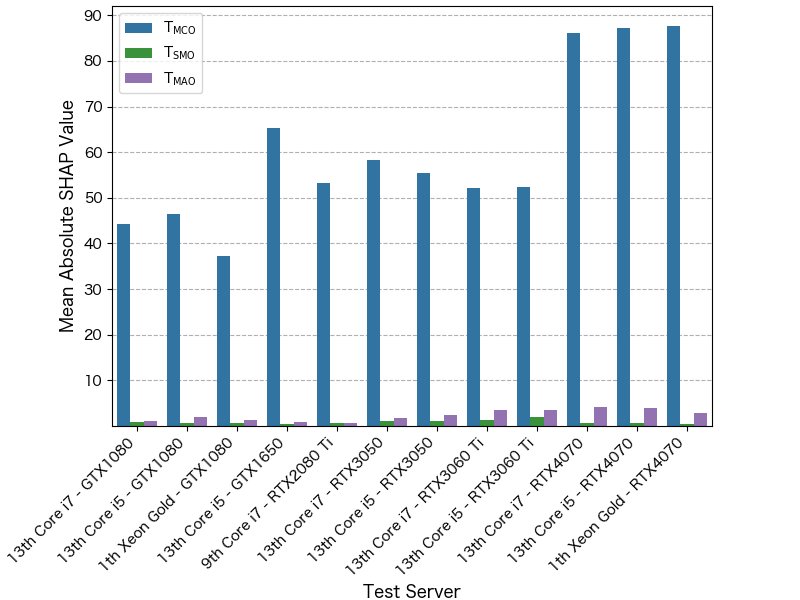
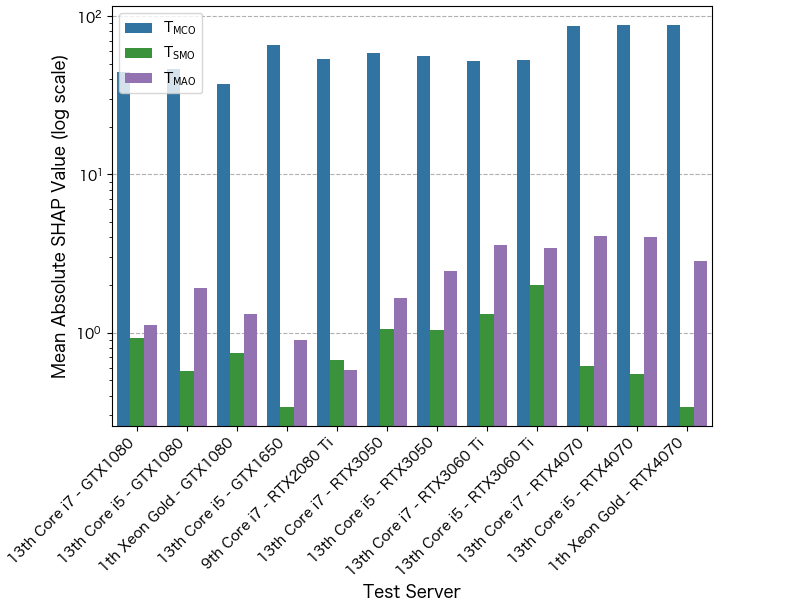
soturonグラフ追加

diff --git a/visualize_source/temp2.py b/visualize_source/temp2.py
@@ -1,0 +1,129 @@
+import pandas as pd
+import seaborn as sns
+import matplotlib.pyplot as plt
+import os
+from config import PLT_FONT
+
+plt.rcParams['font.family'] = PLT_FONT
+
+output_dir = '../soturon_graph'  # 保存先のディレクトリ
+
+
+def plot_benchmark_time(data, output_filename):
+    """
+    データを受け取り、ベンチマークの棒グラフを作成し、指定のファイル名で保存する関数。
+
+    Parameters:
+    - data (dict): GPU/CPUと各ベンチマークの実行時間を含む辞書形式のデータ
+    - output_filename (str): 保存するファイル名
+    """
+    # DataFrameの作成
+    df = pd.DataFrame(data)
+
+    # データをlong formatに変換
+    df_melted = df.melt(
+        id_vars=df.columns[0],  # 最初の列（GPUやCPU名）
+        value_vars=df.columns[1:],  # ベンチマークの列
+        var_name='Benchmark',
+        value_name='Time (s)')
+
+    # LaTeX形式に変換する関数
+    def convert_to_latex_format(parameter):
+        return f"T$_{{\\text{{{parameter[2:]}}}}}$"
+
+    # Benchmark列を変換
+    df_melted["Benchmark"] = df_melted["Benchmark"].apply(convert_to_latex_format)
+
+    # df の列数（最初の列はカテゴリ列として除外）
+    num_benchmarks = len(df.columns) - 1  # 例えば "CPU" や "GPU" の列を除外
+    if num_benchmarks == 3:
+        palette = ["#1f77b4", "#ff7f0e", "#d62728"]  # 青・オレンジ・赤
+    else:
+        palette = ["#1f77b4", "#ff7f0e", "#2ca02c", "#d62728", "#9467bd", "#edc949"]
+    plt.figure(figsize=(5, 4))
+    ax = plt.gca()
+    ax.grid(True, zorder=1)  # グリッドを zorder=1 に設定
+    sns.barplot(x=df.columns[0],
+                y='Time (s)',
+                hue='Benchmark',
+                data=df_melted,
+                palette=palette,
+                width=0.6,
+                zorder=2)
+    ax.legend().set_title('')
+    plt.xlabel(df.columns[0], fontsize=12)  # CPUやGPU名に応じたラベル
+    plt.ylabel('Time (s, log scale)', fontsize=12)
+    plt.xticks(fontsize=10)
+    plt.yscale("log")
+    plt.tight_layout()
+    plt.subplots_adjust(right=0.85)  # 下部の余白を確保
+
+    # 保存
+    save_path = os.path.join(output_dir, output_filename)
+    plt.savefig(save_path)
+    plt.close()
+
+
+# # 使用例
+# data1 = {
+#     'CPU': ['13th Core i7', '13th Core i5', '1st Xeon Gold'],
+#     'T_SLT': [0.18259, 0.19787, 0.39629],
+#     'T_BST': [0.11185, 0.11958, 0.17592],
+#     'T_IST': [0.14290, 0.15332, 0.24017]
+# }
+
+# plot_benchmark_time(data1, 'transfer_rtx4070_cpu.png')
+
+# data2 = {
+#     'GPU': ['RTX4070', 'RTX3060 Ti', 'RTX3050', 'GTX1650', 'GTX1080'],
+#     'T_SLT': [0.19787, 0.19683, 0.22359, 0.22539, 0.22363],
+#     'T_BST': [0.11958, 0.11924, 0.13752, 0.13858, 0.13802],
+#     'T_IST': [0.15332, 0.15200, 0.18115, 0.18422, 0.18245]
+# }
+
+# plot_benchmark_time(data2, 'transfer_13th_Core_i5_gpu.png')
+
+# データの設定
+data3 = {
+    'GPU': ['RTX4070', 'GTX1080'],
+    'T_SLT': [0.39629, 0.39282],
+    'T_BST': [0.17592, 0.17521],
+    'T_IST': [0.24017, 0.24391]
+}
+plot_benchmark_time(data3, 'transfer_1th_Xeon_Gold_gpu.png')
+
+# # データの設定
+# data4 = {
+#     'GPU': ['RTX4070', 'RTX3060 Ti', 'RTX3050', 'GTX1650', 'GTX1080'],
+#     'T_SCO': [0.36207, 0.61767, 1.32907, 1.76343, 0.56396],
+#     'T_MCO': [0.80885, 1.38042, 3.10884, 3.95939, 2.36742],
+#     'T_SMO': [4.44514, 7.77619, 16.50043, 19.24658, 7.47047],
+#     'T_MMO': [0.49520, 0.83275, 1.79453, 2.17332, 0.97811],
+#     'T_SAO': [0.00517, 0.00579, 0.01566, 0.01432, 0.00994],
+#     'T_MAO': [0.51385, 0.57337, 1.55930, 1.42609, 0.98987]
+# }
+
+# plot_benchmark_time(data4, 'matrix_13th_Core_i5_gpu.png')
+
+# data5 = {
+#     "CPU": ["13th Core i7", "13th Core i5", "1st Xeon Gold"],
+#     "T_SCO": [0.55801, 0.56396, 0.56004],
+#     "T_MCO": [2.28216, 2.36742, 2.29248],
+#     "T_SMO": [7.44310, 7.47047, 7.49736],
+#     "T_MMO": [0.96404, 0.97811, 0.97532],
+#     "T_SAO": [0.00994, 0.00994, 0.00998],
+#     "T_MAO": [0.98969, 0.98987, 0.98950],
+# }
+# plot_benchmark_time(data5, 'matrix_gtx1080_cpu.png')
+
+# # データの設定
+# data6 = {
+#     "CPU": ["13th Core i7", "13th Core i5", "1st Xeon Gold"],
+#     "T_SCO": [0.36004, 0.36207, 0.40328],
+#     "T_MCO": [0.80333, 0.80885, 0.84915],
+#     "T_SMO": [4.42400, 4.44514, 4.49111],
+#     "T_MMO": [0.48996, 0.49520, 0.49006],
+#     "T_SAO": [0.00516, 0.00517, 0.00522],
+#     "T_MAO": [0.51386, 0.51385, 0.51435],
+# }
+# plot_benchmark_time(data6, 'matrix_rtx4070_cpu.png')

diff --git a/visualize_source/temp.py b/visualize_source/temp.py
@@ -1,0 +1,128 @@
+import pandas as pd
+import seaborn as sns
+import matplotlib.pyplot as plt
+import os
+from config import PLT_FONT
+
+plt.rcParams['font.family'] = PLT_FONT
+
+output_dir = '../soturon_graph'  # 保存先のディレクトリ
+
+
+def plot_benchmark_time(data, output_filename):
+    """
+    データを受け取り、ベンチマークの棒グラフを作成し、指定のファイル名で保存する関数。
+
+    Parameters:
+    - data (dict): GPU/CPUと各ベンチマークの実行時間を含む辞書形式のデータ
+    - output_filename (str): 保存するファイル名
+    """
+    # DataFrameの作成
+    df = pd.DataFrame(data)
+
+    # データをlong formatに変換
+    df_melted = df.melt(
+        id_vars=df.columns[0],  # 最初の列（GPUやCPU名）
+        value_vars=df.columns[1:],  # ベンチマークの列
+        var_name='Benchmark',
+        value_name='Time (s)')
+
+    # LaTeX形式に変換する関数
+    def convert_to_latex_format(parameter):
+        return f"T$_{{\\text{{{parameter[2:]}}}}}$"
+
+    # Benchmark列を変換
+    df_melted["Benchmark"] = df_melted["Benchmark"].apply(convert_to_latex_format)
+
+    # df の列数（最初の列はカテゴリ列として除外）
+    num_benchmarks = len(df.columns) - 1  # 例えば "CPU" や "GPU" の列を除外
+    if num_benchmarks == 3:
+        palette = ["#1f77b4", "#ff7f0e", "#d62728"]  # 青・オレンジ・赤
+    else:
+        palette = ["#1f77b4", "#ff7f0e", "#2ca02c", "#d62728", "#9467bd", "#edc949"]
+    plt.figure(figsize=(6, 5))
+    ax = plt.gca()
+    ax.grid(True, zorder=1)  # グリッドを zorder=1 に設定
+    sns.barplot(x=df.columns[0],
+                y='Time (s)',
+                hue='Benchmark',
+                data=df_melted,
+                palette=palette,
+                zorder=2)
+    ax.legend().set_title('')
+    plt.xlabel(df.columns[0], fontsize=12)  # CPUやGPU名に応じたラベル
+    plt.ylabel('Time (s, log scale)', fontsize=12)
+    plt.xticks(fontsize=10)
+    plt.yscale("log")
+    plt.tight_layout()
+    plt.subplots_adjust(right=0.85)  # 下部の余白を確保
+
+    # 保存
+    save_path = os.path.join(output_dir, output_filename)
+    plt.savefig(save_path)
+    plt.close()
+
+
+# 使用例
+data1 = {
+    'CPU': ['13th Core i7', '13th Core i5', '1st Xeon Gold'],
+    'T_SLT': [0.18259, 0.19787, 0.39629],
+    'T_BST': [0.11185, 0.11958, 0.17592],
+    'T_IST': [0.14290, 0.15332, 0.24017]
+}
+
+plot_benchmark_time(data1, 'transfer_rtx4070_cpu.png')
+
+data2 = {
+    'GPU': ['RTX4070', 'RTX3060 Ti', 'RTX3050', 'GTX1650', 'GTX1080'],
+    'T_SLT': [0.19787, 0.19683, 0.22359, 0.22539, 0.22363],
+    'T_BST': [0.11958, 0.11924, 0.13752, 0.13858, 0.13802],
+    'T_IST': [0.15332, 0.15200, 0.18115, 0.18422, 0.18245]
+}
+
+plot_benchmark_time(data2, 'transfer_13th_Core_i5_gpu.png')
+
+# データの設定
+data3 = {
+    'GPU': ['RTX4070', 'GTX1080'],
+    'T_SLT': [0.39629, 0.39282],
+    'T_BST': [0.17592, 0.17521],
+    'T_IST': [0.24017, 0.24391]
+}
+plot_benchmark_time(data3, 'transfer_1th_Xeon_Gold_gpu.png')
+
+# データの設定
+data4 = {
+    'GPU': ['RTX4070', 'RTX3060 Ti', 'RTX3050', 'GTX1650', 'GTX1080'],
+    'T_SCO': [0.36207, 0.61767, 1.32907, 1.76343, 0.56396],
+    'T_MCO': [0.80885, 1.38042, 3.10884, 3.95939, 2.36742],
+    'T_SMO': [4.44514, 7.77619, 16.50043, 19.24658, 7.47047],
+    'T_MMO': [0.49520, 0.83275, 1.79453, 2.17332, 0.97811],
+    'T_SAO': [0.00517, 0.00579, 0.01566, 0.01432, 0.00994],
+    'T_MAO': [0.51385, 0.57337, 1.55930, 1.42609, 0.98987]
+}
+
+plot_benchmark_time(data4, 'matrix_13th_Core_i5_gpu.png')
+
+data5 = {
+    "CPU": ["13th Core i7", "13th Core i5", "1st Xeon Gold"],
+    "T_SCO": [0.55801, 0.56396, 0.56004],
+    "T_MCO": [2.28216, 2.36742, 2.29248],
+    "T_SMO": [7.44310, 7.47047, 7.49736],
+    "T_MMO": [0.96404, 0.97811, 0.97532],
+    "T_SAO": [0.00994, 0.00994, 0.00998],
+    "T_MAO": [0.98969, 0.98987, 0.98950],
+}
+plot_benchmark_time(data5, 'matrix_gtx1080_cpu.png')
+
+# データの設定
+data6 = {
+    "CPU": ["13th Core i7", "13th Core i5", "1st Xeon Gold"],
+    "T_SCO": [0.36004, 0.36207, 0.40328],
+    "T_MCO": [0.80333, 0.80885, 0.84915],
+    "T_SMO": [4.42400, 4.44514, 4.49111],
+    "T_MMO": [0.48996, 0.49520, 0.49006],
+    "T_SAO": [0.00516, 0.00517, 0.00522],
+    "T_MAO": [0.51386, 0.51385, 0.51435],
+}
+plot_benchmark_time(data6, 'matrix_rtx4070_cpu.png')

diff --git a/visualize_source/benchmark_shap_analysis_barplot.py b/visualize_source/benchmark_shap_analysis_barplot.py
@@ -102,10 +102,11 @@ for inputs in unique_inputs:
     # タイトルや設定
     #plt.title(f'Mean Absolute SHAP Values by Parameter and Server ({inputs})', fontsize=16)
     plt.xlabel('Test Server', fontsize=12)
-    plt.ylabel('Mean Absolute SHAP Value', fontsize=12)
+    plt.ylabel('Mean Absolute SHAP Value (log scale)', fontsize=12)
     plt.xticks(rotation=45, ha="right", fontsize=10)
     # 凡例の位置を右上に固定
     plt.legend(loc='upper left')
+    plt.yscale("log")
 
     plt.tight_layout()
     plt.subplots_adjust(left=0.14, right=0.89, bottom=0.29, top=0.99)  # 余白調整
